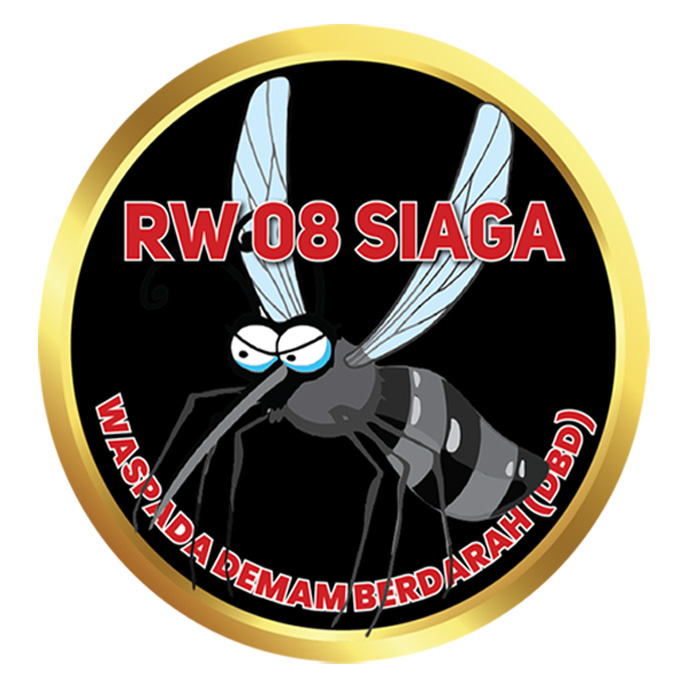
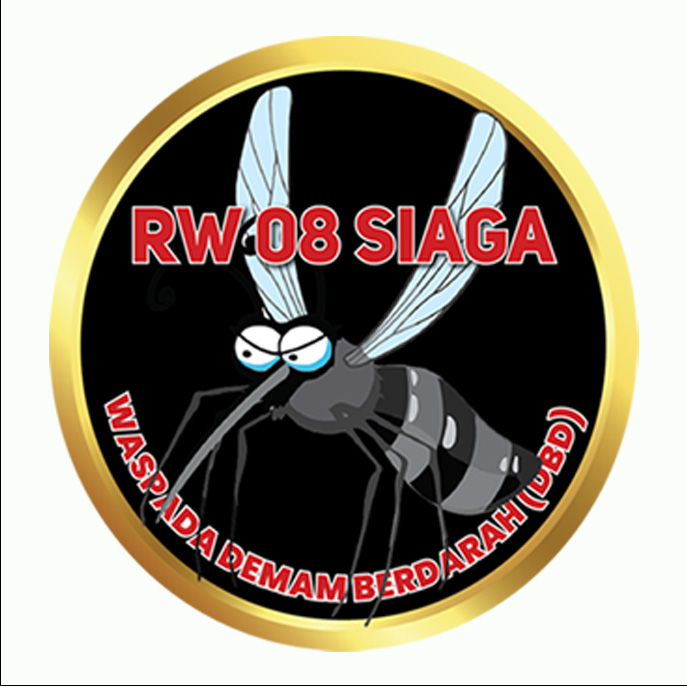
ubah gambar berita

Changed region(s): [[0.0306, 0.0306, 0.9476, 0.9782], [0.0, 0.9782, 0.0306, 1.0]]

diff --git a/index.html b/index.html
@@ -127,7 +127,7 @@
 
         <div class="row">
         <div class="about-img">
-          <img src="img/products/13.png" alt="Berita Utama" data-aos="zoom-in" data-aos-duration="2000">
+          <img src="img/products/13.jpg" alt="Berita Utama" data-aos="zoom-in" data-aos-duration="2000">
          </div>
          <div class="content" data-aos="fade-left" data-aos-duration="2000">
            <h3>Waspada DBD</h3>
